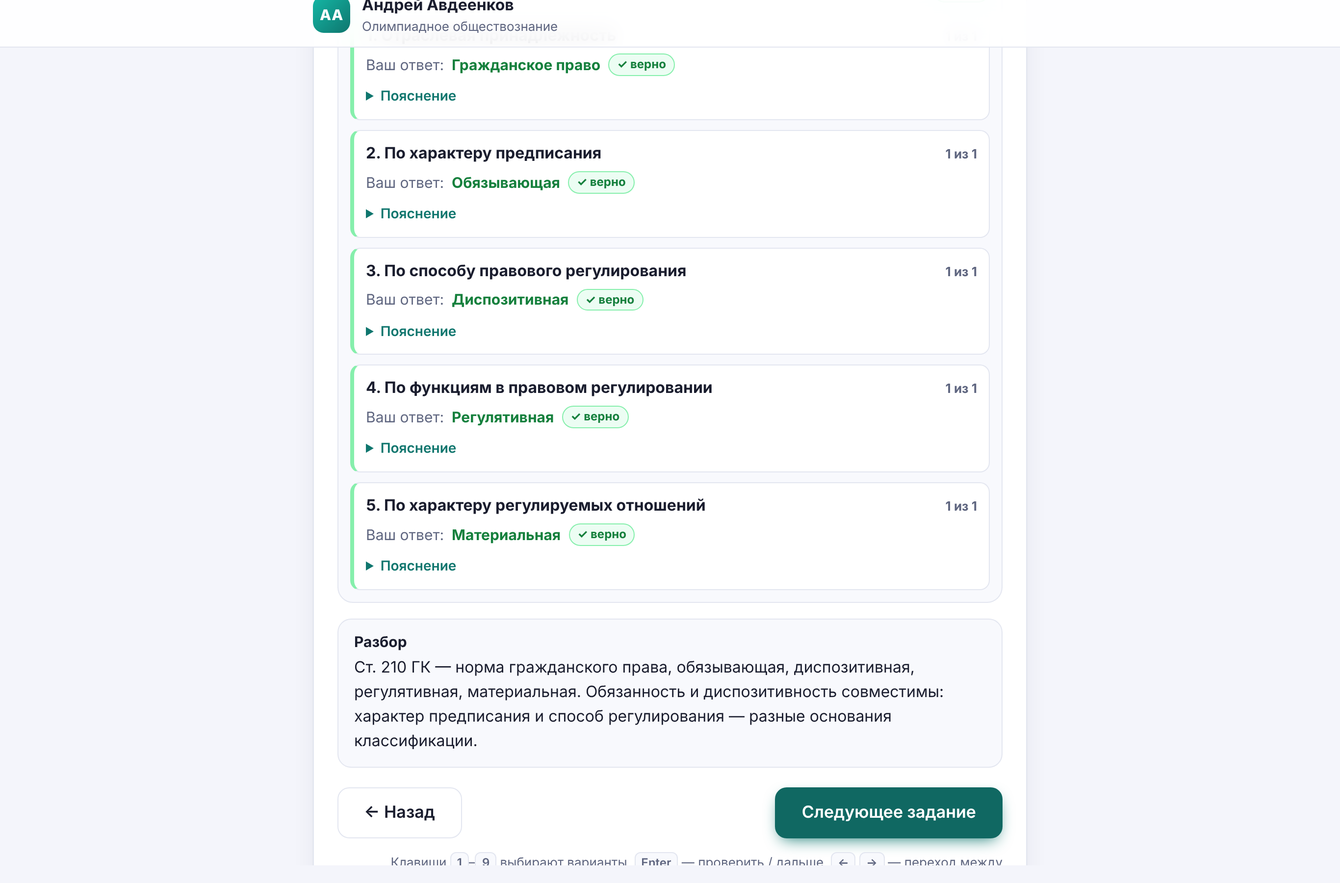
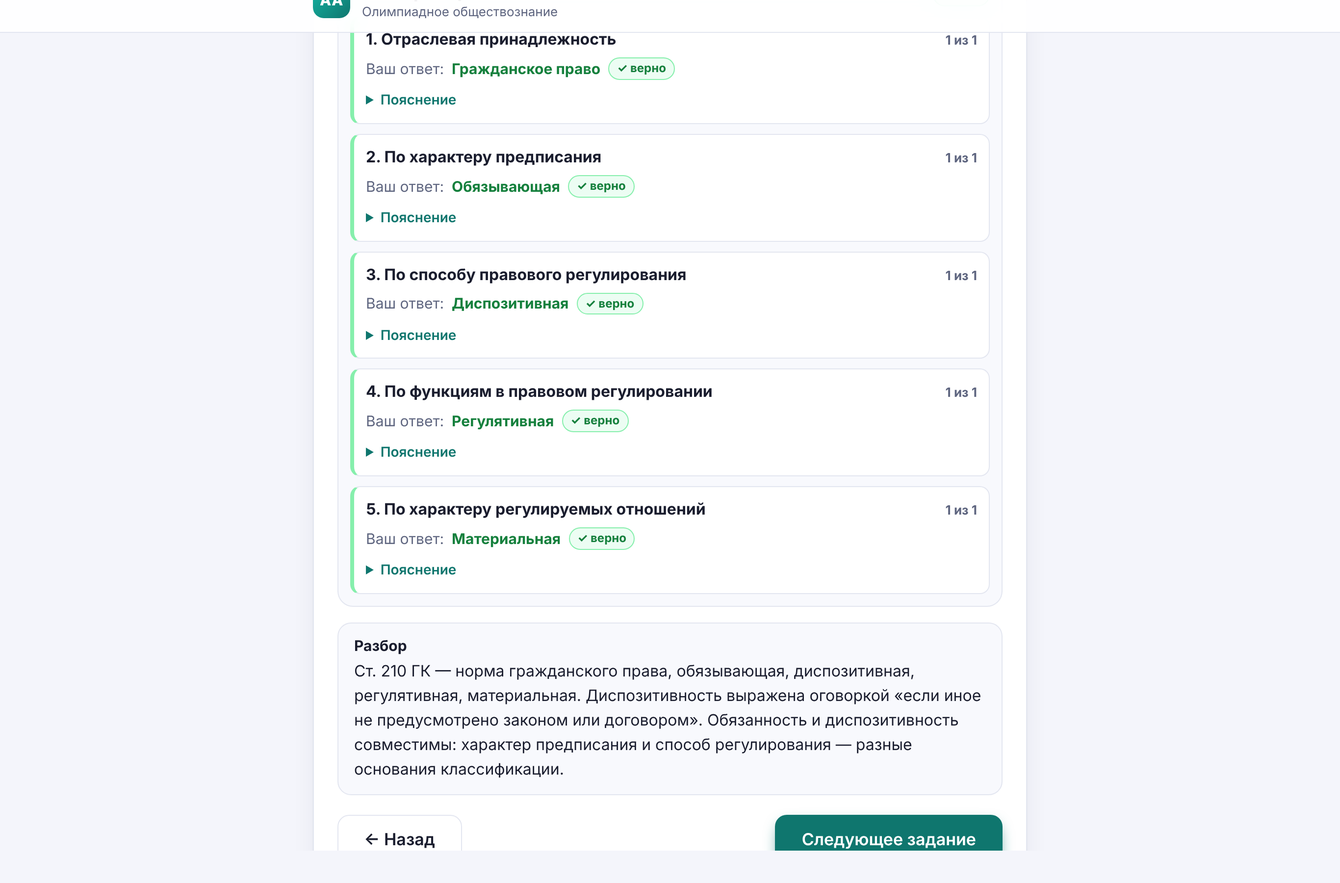
Структура нормы: образец IV-1 (ТК ст. 76 ч. 1) в трёхэлементной модели; уточнения III-2, III-3, III-4, III-6
- IV-1: гипотеза и диспозиция выражены однозначно, санкции в тексте нет — не размечается;
  вопросы о невыраженной санкции; без «условия применения санкции».
- Разбор разметки: точная формулировка замечания, когда фрагмент элемента помечен другим элементом.
- III-2 — оговорка «если иное не предусмотрено законом или договором»; III-3 — без дискуссии
  о диспозитивности; III-4 — исключения из запрета увольнения; III-6 — полная санкция ст. 158 ч. 1.

Claude-Session: https://claude.ai/code/session_01DtU1BYdzbcua2RQZXHQm1D

diff --git a/work/law-nrm/mandatory.js b/work/law-nrm/mandatory.js
@@ -818,9 +818,9 @@ OLY.addTasks([
           { id: 'method', short: 'Императивность', label: '3. По способу правового регулирования',
             options: ['Императивная', 'Диспозитивная'], key: [1],
             wrong: {
-              0: { short: 'Норма прямо допускает иное, предусмотренное договором: это диспозитивная норма.', full: 'Обязывающий характер нормы не означает императивности: это разные основания классификации. Слова «если иное не предусмотрено … договором» позволяют сторонам договориться, что бремя содержания несёт другое лицо (например, арендатор), — норма применяется, если стороны иное не установили.' }
+              0: { short: 'Решает оговорка «если иное не предусмотрено законом или договором»: норма сама допускает иное правило — это диспозитивная норма.', full: 'Обязывающий характер нормы не означает императивности: это разные основания классификации. Оговорка «если иное не предусмотрено законом или договором» позволяет сторонам договором возложить бремя содержания на другое лицо (например, на арендатора). Правило ст. 210 применяется, только если ни закон, ни договор не установили иное.' }
             },
-            explanation: 'Норма применяется, если договором (или законом) не предусмотрено иное, — диспозитивная.' },
+            explanation: 'Ключ к ответу — оговорка «если иное не предусмотрено законом или договором». Правило о бремени содержания действует, пока стороны договором (или закон) не установили иное, — диспозитивная норма.' },
           { id: 'function', short: 'Функция', label: '4. По функциям в правовом регулировании',
             options: ['Регулятивная', 'Охранительная'], key: [0],
             wrong: { 1: 'Норма устанавливает обязанность собственника, а не меру принуждения за нарушение.' },
@@ -832,7 +832,7 @@ OLY.addTasks([
         ]
       }
     ],
-    explanation: 'Ст. 210 ГК — норма гражданского права, обязывающая, диспозитивная, регулятивная, материальная. Обязанность и диспозитивность совместимы: характер предписания и способ регулирования — разные основания классификации.',
+    explanation: 'Ст. 210 ГК — норма гражданского права, обязывающая, диспозитивная, регулятивная, материальная. Диспозитивность выражена оговоркой «если иное не предусмотрено законом или договором». Обязанность и диспозитивность совместимы: характер предписания и способ регулирования — разные основания классификации.',
     typicalMistake: 'Считать норму императивной только потому, что она устанавливает обязанность.',
     scoring: { maxPoints: 5, rule: 'components', basis: 'author' }
   },
@@ -886,7 +886,7 @@ OLY.addTasks([
         ]
       }
     ],
-    explanation: 'Предписание ч. 1 ст. 39 ГПК о полномочиях истца — норма гражданского процессуального права, управомочивающая, регулятивная, процессуальная. Основание «императивная / диспозитивная» в задание не включено: применительно к процессуальным нормам о распоряжении правами в науке используются разные подходы (диспозитивность как принцип процесса и как способ правового регулирования), и однозначного ответа нет.',
+    explanation: 'Предписание ч. 1 ст. 39 ГПК о полномочиях истца — норма гражданского процессуального права, управомочивающая, регулятивная, процессуальная.',
     typicalMistake: 'Относить норму к гражданскому праву, потому что иск защищает гражданские права.',
     scoring: { maxPoints: 4, rule: 'components', basis: 'author' }
   },
@@ -901,100 +901,80 @@ OLY.addTasks([
     order: 7,
     level: 1,
     draft: true,
-    verification: { status: 'unconfirmed', checked: '2026-10-11', note: 'Официальные источники недоступны из окружения разработки; текст пп. 1 и 3 ст. 80 СК приведён по одному вторичному источнику (статус C), нумерацию пунктов нужно проверить.' },
-    tags: ['структура нормы', 'гипотеза', 'диспозиция', 'санкция', 'правовосстановительная санкция', 'реконструкция нормы'],
+    verification: { status: 'unconfirmed', checked: '2026-10-11', note: 'Официальные источники недоступны из окружения разработки. ТК РФ ст. 76 ч. 1 (абз. 1–2) приведена по памяти.' },
+    tags: ['структура нормы', 'гипотеза', 'диспозиция', 'санкция', 'элементы, выраженные в тексте'],
     type: 'text-markup',
-    question: 'Разметьте элементы, прямо выраженные в пп. 1 и 3 ст. 80 СК РФ, и восстановите полную норму.',
-    markupTitle: 'Разметка выраженных элементов',
-    markupHint: 'Размечайте только то, что прямо написано в тексте. Санкция здесь понимается в смысле лекции — как мера, применяемая при неисполнении обязанности (в том числе правовосстановительная). То, что в тексте не выражено, не размечается: полная норма восстанавливается в вопросах ниже.',
+    question: 'Определите структуру нормы ТК РФ, ст. 76 ч. 1: выделите гипотезу, диспозицию и санкцию — те из них, что выражены в тексте.',
+    markupTitle: 'Структура нормы',
+    markupHint: 'Классическая трёхэлементная модель: гипотеза — условия, при которых действует правило; диспозиция — само правило поведения; санкция — мера государственного принуждения за нарушение правила. Размечайте только то, что прямо выражено в тексте. Если элемента в тексте нет, не размечайте его: вопросы о нём — ниже.',
     legal: [
       {
-        id: 'sk-80', role: 'main', act: 'СК РФ', ref: 'ст. 80, пп. 1 и 3', verified: false,
+        id: 'tk-76-1', role: 'main', act: 'ТК РФ', ref: 'ст. 76, ч. 1, абз. 1–2', verified: false,
         fragments: [
-          { text: 'П. 1: ' },
-          { id: 'f1', text: 'Родители' }, { text: ' ' },
-          { id: 'f2', text: 'обязаны содержать' }, { text: ' ' },
-          { id: 'f3', text: 'своих несовершеннолетних детей.' }, { text: ' […] П. 3: ' },
-          { id: 'f4', text: 'В случае, если родители не предоставляют содержание своим несовершеннолетним детям,' }, { text: ' ' },
-          { id: 'f5', text: 'средства на содержание несовершеннолетних детей (алименты) взыскиваются с родителей в судебном порядке.' }
+          { id: 'f1', text: 'Работодатель обязан отстранить от работы (не допускать к работе)' }, { text: ' работника: ' },
+          { id: 'f2', text: 'появившегося на работе в состоянии алкогольного, наркотического или иного токсического опьянения' }, { text: '; […]' }
         ]
       }
     ],
     palette: [
       { id: 'H', label: 'Гипотеза', short: 'Г' },
       { id: 'D', label: 'Диспозиция', short: 'Д' },
-      { id: 'U', label: 'Условие применения санкции', short: 'У', tool: 'условие' },
       { id: 'S', label: 'Санкция', short: 'С' }
     ],
     markup: {
-      key: { f1: 'H', f2: 'D', f3: ['H', 'D'], f4: 'U', f5: 'S' },
+      key: { f1: 'D', f2: 'H' },
       elements: {
         H: {
-          explanation: 'Гипотеза указывает, к кому и при каких условиях применяется норма: родители (по отношению к несовершеннолетним детям). Фрагмент «своих несовершеннолетних детей» содержит и условие (несовершеннолетие), и объект обязанности — граница спорна, принимаются обе метки.',
-          wrong: 'Адресат нормы — «родители» — и условие несовершеннолетия детей относятся к гипотезе.'
+          explanation: 'Гипотеза — условие, при котором возникает обязанность: работник появился на работе в состоянии алкогольного, наркотического или иного токсического опьянения.',
+          wrong: 'Условие, при котором действует правило, — «появившегося на работе в состоянии … опьянения»: это гипотеза.'
         },
         D: {
-          explanation: 'Диспозиция — правило поведения: «обязаны содержать».',
-          wrong: '«Обязаны содержать» — правило поведения, то есть диспозиция.'
-        },
-        U: {
-          explanation: 'Слова «в случае, если родители не предоставляют содержание…» — условие применения санкции: неисполнение обязанности из диспозиции.',
-          wrong: {
-            short: 'Условие применения санкции — неисполнение обязанности: «в случае, если родители не предоставляют содержание».',
-            full: 'Это не гипотеза основной нормы (она говорит, кто обязан), а обстоятельство, при котором применяется мера, — нарушение диспозиции. Поэтому в палитре оно выделено отдельно.'
-          }
+          explanation: 'Диспозиция — правило поведения: работодатель обязан отстранить работника от работы (не допускать к работе). Указание на обязанное лицо — работодателя — входит в диспозицию.',
+          wrong: 'Правило поведения — «Работодатель обязан отстранить от работы (не допускать к работе)» — это диспозиция.'
         },
         S: {
-          explanation: 'Санкция в смысле лекции — взыскание алиментов в судебном порядке: принудительное исполнение той же обязанности (правовосстановительная мера).',
-          wrong: 'Мера, применяемая при неисполнении обязанности, — «алименты взыскиваются с родителей в судебном порядке».'
+          explanation: 'Санкции в приведённом тексте нет. Мера ответственности работодателя за неисполнение обязанности установлена другим актом.',
+          wrong: {
+            short: 'В тексте санкции нет — её не размечают.',
+            full: 'Слова «отстранить от работы (не допускать к работе)» описывают, что должен сделать работодатель, то есть содержание его обязанности. Санкция — мера принуждения к самому работодателю за неисполнение этой обязанности; в ст. 76 её нет.'
+          }
         }
       }
     },
     sections: [
       {
         id: 'rebuild',
-        title: 'Реконструкция полной нормы',
-        hint: 'Восстановите то, что в тексте выражено не полностью или вытекает из сопоставления пунктов.',
+        title: 'Невыраженный элемент',
         rows: [
           {
-            id: 'r-hyp', short: 'Гипотеза', shuffle: true,
-            label: 'К кому и при каком условии применяется основная норма (полная гипотеза)?',
-            options: ['к родителям несовершеннолетних детей', 'к родителям любых детей независимо от возраста', 'только к родителям, проживающим отдельно от детей'],
+            id: 'r-present', short: 'Есть ли санкция', shuffle: true,
+            label: 'Выражена ли санкция в приведённом тексте?',
+            options: ['Нет: в приведённом тексте санкции нет', 'Да: это слова «не допускать к работе»', 'Да: это слова «отстранить от работы»'],
             key: [0],
             wrong: {
-              1: 'Норма говорит о несовершеннолетних детях; обязанности по отношению к совершеннолетним детям установлены другими нормами.',
-              2: 'Текст не ограничивает обязанность родителями, проживающими отдельно: она лежит на обоих родителях.'
+              1: 'Недопуск к работе — содержание обязанности работодателя (диспозиция), а не мера принуждения к нему.',
+              2: 'Отстранение — действие, которое обязан совершить работодатель (диспозиция). Санкция применялась бы к самому работодателю за неисполнение обязанности.'
             },
-            explanation: 'Гипотеза: лица являются родителями несовершеннолетних детей.'
+            explanation: 'В тексте выражены только гипотеза и диспозиция.'
           },
           {
-            id: 'r-kind', short: 'Вид санкции',
-            label: 'Вид санкции по лекции',
-            options: ['правовосстановительная', 'штрафная (карательная)', 'поощрительная'],
+            id: 'r-where', short: 'Где санкция', shuffle: true,
+            label: 'Где можно найти меру ответственности работодателя за неисполнение этой обязанности?',
+            options: ['В другом акте — в КоАП РФ (нарушение трудового законодательства)', 'В этой же части ст. 76 ТК — в словах, взятых в скобки', 'Нигде: эта обязанность работодателя ничем не обеспечена', 'В трудовом договоре, заключённом с этим работником'],
             key: [0],
             wrong: {
-              1: 'Взыскание алиментов не добавляет нового обременения сверх обязанности, а принуждает исполнить саму обязанность.',
-              2: 'Поощрительная мера — награда за полезное поведение; здесь мера применяется при неисполнении обязанности.'
+              1: 'Слова в скобках уточняют содержание обязанности (не допускать к работе), а не устанавливают меру принуждения.',
+              2: 'Нарушение работодателем трудового законодательства влечёт административную ответственность по КоАП РФ.',
+              3: 'Трудовой договор не устанавливает мер государственного принуждения к работодателю.'
             },
-            explanation: 'Правовосстановительная: принудительно исполняется та же обязанность содержать детей.'
-          },
-          {
-            id: 'r-link', short: 'П. 1 и п. 3', shuffle: true, component: 'R',
-            label: 'Как связаны п. 1 и п. 3?',
-            options: ['п. 1 — правило поведения, п. 3 — мера на случай его нарушения', 'п. 3 — исключение из правила п. 1 для отдельных случаев', 'п. 3 раскрывает понятие «содержание», использованное в п. 1'],
-            key: [0],
-            wrong: {
-              1: 'П. 3 не отменяет обязанность, а обеспечивает её исполнение.',
-              2: 'П. 3 не определяет понятие из п. 1, а устанавливает последствие его нарушения.'
-            },
-            explanation: 'Три элемента нормы собираются из двух пунктов: п. 1 — гипотеза и диспозиция, п. 3 — условие применения санкции и сама санкция.'
+            explanation: 'Санкцию можно восстановить из другого акта: за нарушение трудового законодательства работодатель несёт административную ответственность по КоАП РФ. Трёхэлементная модель описывает логическую структуру нормы — элементы не обязаны находиться в одной статье.'
           }
         ]
       }
     ],
-    explanation: 'В пп. 1 и 3 ст. 80 СК все элементы нормы выражены в тексте, но в разных пунктах: гипотеза и диспозиция — в п. 1, условие применения санкции и санкция — в п. 3. Санкция здесь понимается в широком смысле лекции — как правовосстановительная мера.',
-    typicalMistake: 'Отнести слова «в случае, если родители не предоставляют содержание» к гипотезе основной нормы.',
-    scoring: { maxPoints: 7, rule: 'components', basis: 'author' }
+    explanation: 'В ч. 1 ст. 76 ТК выражены гипотеза (работник появился на работе в состоянии опьянения) и диспозиция (работодатель обязан отстранить его от работы). Санкции в тексте нет: меру ответственности работодателя можно восстановить из другого акта — КоАП РФ.',
+    typicalMistake: 'Принимать слова «не допускать к работе» за санкцию или размечать элемент, которого нет в тексте.',
+    scoring: { maxPoints: 5, rule: 'components', basis: 'author' }
   },
   {
     id: 'PR-LAW-NRM-008',

diff --git a/work/law-nrm/block-b.js b/work/law-nrm/block-b.js
@@ -86,7 +86,7 @@
       order: 2,
       level: 2,
       draft: true,
-      verification: { status: 'unconfirmed', checked: '2026-10-11', note: 'Официальные источники недоступны из окружения разработки. ТК РФ ст. 81 ч. 6 приведена по памяти.' },
+      verification: { status: 'unconfirmed', checked: '2026-10-11', note: 'Официальные источники недоступны из окружения разработки. ТК РФ ст. 81 ч. 6 приведена по памяти; номер части (в действующей редакции — ч. 6) и текст исключения нужно сверить с официальной публикацией.' },
       tags: ['классификация норм', 'отрасль права', 'запрещающая норма', 'императивная норма', 'регулятивная норма', 'материальная норма'],
       type: 'analysis-grid',
       question: 'Классифицируйте норму ТК РФ, ст. 81 ч. 6 (запрет увольнения в период нетрудоспособности и отпуска).',
@@ -97,7 +97,7 @@
       sections: [
         {
           id: 'classify', title: 'Классификация',
-          hint: 'Классифицируйте приведённое предписание целиком.',
+          hint: 'Классифицируйте приведённое предписание целиком, включая исключение в скобках.',
           rows: [
             OLY.nrmClassify.branchRow({
               key: 'Трудовое право', regulates: 'увольнение работника по инициативе работодателя',
@@ -113,7 +113,7 @@
                 1: 'Норма не требует совершить действие, а запрещает его — увольнение в указанные периоды.',
                 2: 'Норма не предоставляет возможность, а устанавливает запрет («не допускается»).'
               },
-              explanation: '«Не допускается увольнение» — запрет определённого поведения: запрещающая норма.' },
+              explanation: '«Не допускается увольнение» — запрет определённого поведения: запрещающая норма. Исключение (ликвидация организации, прекращение деятельности индивидуальным предпринимателем) сужает запрет, но не меняет его характера.' },
             { id: 'method', short: 'Императивность', label: '3. По способу правового регулирования',
               options: ['Императивная', 'Диспозитивная'], key: [0],
               wrong: { 1: 'Запрет не может быть отменён соглашением работника и работодателя: норма не допускает иного регулирования по усмотрению сторон.' },
@@ -129,7 +129,7 @@
           ]
         }
       ],
-      explanation: 'Ч. 6 ст. 81 ТК — норма трудового права, запрещающая, императивная, регулятивная, материальная. Запрещающие нормы относятся к регулятивным: они устанавливают правило поведения.',
+      explanation: 'Ч. 6 ст. 81 ТК — норма трудового права, запрещающая, императивная, регулятивная, материальная. Запрет действует с исключениями: (1) он касается только увольнения по инициативе работодателя — например, расторжение договора по соглашению сторон или по инициативе работника им не охватывается; (2) сама норма допускает увольнение в период нетрудоспособности или отпуска при ликвидации организации либо прекращении деятельности индивидуальным предпринимателем. Запрещающие нормы относятся к регулятивным: они устанавливают правило поведения.',
       typicalMistake: 'Считать запрещающую норму охранительной, потому что она защищает работника.',
       scoring: { maxPoints: 5, rule: 'components', basis: 'author' }
     },
@@ -197,18 +197,18 @@
       order: 4,
       level: 2,
       draft: true,
-      verification: { status: 'unconfirmed', checked: '2026-10-11', note: 'Официальные источники недоступны из окружения разработки. УК РФ ст. 158 ч. 1 приведена по памяти, санкция — с сокращениями; виды и размеры наказаний нужно сверить.' },
+      verification: { status: 'unconfirmed', checked: '2026-10-11', note: 'Официальные источники недоступны из окружения разработки. УК РФ ст. 158 ч. 1 приведена по памяти полностью; виды и размеры наказаний нужно сверить с действующей редакцией.' },
       tags: ['классификация норм', 'отрасль права', 'охранительная норма', 'императивная норма', 'материальная норма'],
       type: 'analysis-grid',
       question: 'Классифицируйте норму УК РФ, ст. 158 ч. 1 (кража).',
       legal: [
-        { id: 'uk-158-1', role: 'main', act: 'УК РФ', ref: 'ст. 158, ч. 1 (санкция — с сокращениями)', verified: false,
-          fragments: [{ text: 'Кража, то есть тайное хищение чужого имущества, — наказывается штрафом в размере до восьмидесяти тысяч рублей […] либо обязательными работами […], либо лишением свободы на срок до двух лет.' }] }
+        { id: 'uk-158-1', role: 'main', act: 'УК РФ', ref: 'ст. 158, ч. 1', verified: false,
+          fragments: [{ text: 'Кража, то есть тайное хищение чужого имущества, — наказывается штрафом в размере до восьмидесяти тысяч рублей или в размере заработной платы или иного дохода осужденного за период до шести месяцев, либо обязательными работами на срок до трехсот шестидесяти часов, либо исправительными работами на срок до одного года, либо ограничением свободы на срок до двух лет, либо принудительными работами на срок до двух лет, либо арестом на срок до четырех месяцев, либо лишением свободы на срок до двух лет.' }] }
       ],
       sections: [
         {
           id: 'classify', title: 'Классификация',
-          hint: 'Классифицируйте приведённое предписание. Основание «по характеру предписания» здесь не оценивается: для норм, устанавливающих наказание, однозначного ответа нет.',
+          hint: 'Классифицируйте приведённую норму: описание преступления (кража) и наказания за него.',
           rows: [
             OLY.nrmClassify.branchRow({
               key: 'Уголовное право', regulates: 'преступность и наказуемость кражи',
@@ -226,7 +226,7 @@
             { id: 'function', short: 'Функция', label: '3. По функциям в правовом регулировании',
               options: ['Регулятивная', 'Охранительная'], key: [1],
               wrong: { 0: { short: 'Норма устанавливает меру государственного принуждения — наказание — за правонарушение: охранительная.', full: 'Регулятивная норма устанавливает правило поведения (права и обязанности). Ст. 158 ч. 1 определяет, при каком правонарушении и какое наказание применяется, — это охранительная норма.' } },
-              explanation: 'Норма определяет меру государственного принуждения за правонарушение — охранительная.' },
+              explanation: 'Норма описывает правонарушение (кража — тайное хищение чужого имущества) и устанавливает за него меры государственного принуждения — виды и пределы наказаний. Это охранительная норма.' },
             { id: 'nature', short: 'Материальная', label: '4. По характеру регулируемых отношений',
               options: ['Материальная', 'Процессуальная'], key: [0],
               wrong: { 1: 'Норма определяет преступление и наказание, а не порядок уголовного судопроизводства (это УПК).' },

diff --git a/js/olymp/ui/views/markup.js b/js/olymp/ui/views/markup.js
@@ -311,11 +311,17 @@
         return card;
       }
       if (detail.status === 'note') {
-        var where = detail.noted.map(function (id) {
+        // Два разных случая: (а) фрагмент этого элемента помечен другим элементом;
+        // (б) метка этого элемента поставлена на фрагмент другого элемента.
+        detail.noted.forEach(function (id) {
           var f = fragments[id];
-          return N.quote(N.fragmentText(task, id)) + ' — ошибка учтена в элементе «' + paletteLabel(task, f.charged) + '»';
+          var text = N.quote(N.fragmentText(task, id));
+          var charged = paletteLabel(task, f.charged);
+          var line = f.accepted.indexOf(p.id) !== -1
+            ? 'Фрагмент ' + text + ' — это «' + p.label + '», но он размечен как «' + paletteLabel(task, f.mark) + '». Ошибка учтена в элементе «' + charged + '»: одна неверная метка снимает не больше одного балла.'
+            : 'Метка «' + p.label + '» поставлена на фрагмент другого элемента: ' + text + '. Ошибка учтена в элементе «' + charged + '»: одна неверная метка снимает не больше одного балла.';
+          card.appendChild(el('p', 'nrm-rv__note', line));
         });
-        card.appendChild(el('p', 'nrm-rv__note', 'Метка «' + p.label + '» поставлена и на фрагмент другого элемента: ' + where.join('; ') + '. Одна неверная метка снимает не больше одного балла.'));
       }
       card.classList.add('nrm-rv--ok');
     } else {

diff --git a/docs/drafts/pr-law-nrm-verification-checklist.md b/docs/drafts/pr-law-nrm-verification-checklist.md
@@ -24,7 +24,7 @@
 | 9 | ТК РФ | ст. 60 | PR-LAW-NRM-002 | pending | Запрещается требовать от работника выполнения работы, не обусловленной трудовым договором, за исключением случаев, предусмотренных настоящим Кодексом и иными федеральными законами. |
 | 10 | ГК РФ | ст. 210 | PR-LAW-NRM-005 | pending | Собственник несет бремя содержания принадлежащего ему имущества, если иное не предусмотрено законом или договором. |
 | 11 | ГПК РФ | ст. 39, ч. 1 (полномочия истца) | PR-LAW-NRM-006 | pending | Истец вправе изменить основание или предмет иска, увеличить или уменьшить размер исковых требований либо отказаться от иска. |
-| 12 | СК РФ | ст. 80, пп. 1 и 3 | PR-LAW-NRM-007 | pending | П. 1: Родители обязаны содержать своих несовершеннолетних детей. […] П. 3: В случае, если родители не предоставляют содержание своим несовершеннолетним детям, средства на содержание несовершеннолетних детей (алименты) взыскиваются с родителей в судебном порядке. |
+| 12 | ТК РФ | ст. 76, ч. 1, абз. 1–2 | PR-LAW-NRM-007 | pending | Работодатель обязан отстранить от работы (не допускать к работе) работника: появившегося на работе в состоянии алкогольного, наркотического или иного токсического опьянения; […] |
 | 13 | ТК РФ | ст. 122, ч. 2 | PR-LAW-NRM-008 | pending | Право на использование отпуска за первый год работы возникает у работника по истечении шести месяцев его непрерывной работы у данного работодателя. По соглашению сторон оплачиваемый отпуск работнику может быть предоставлен и до истечения шести месяцев. |
 | 14 | Конституция РФ | ст. 38, ч. 3 | PR-LAW-NRM-009 | pending | Трудоспособные дети, достигшие 18 лет, должны заботиться о нетрудоспособных родителях. |
 | 15 | СК РФ | ст. 87, п. 1 | PR-LAW-NRM-009 | pending | Трудоспособные совершеннолетние дети обязаны содержать своих нетрудоспособных нуждающихся в помощи родителей и заботиться о них. |
@@ -41,7 +41,7 @@
 | 26 | СК РФ | ст. 80, п. 1, первое предложение | PR-LAW-NRB-001 | pending | Родители обязаны содержать своих несовершеннолетних детей. |
 | 27 | ТК РФ | ст. 81, ч. 6 | PR-LAW-NRB-002 | pending | Не допускается увольнение работника по инициативе работодателя (за исключением случая ликвидации организации либо прекращения деятельности индивидуальным предпринимателем) в период его временной нетрудоспособности и в период пребывания в отпуске. |
 | 28 | Конституция РФ | ст. 57, первое предложение | PR-LAW-NRB-003 | pending | Каждый обязан платить законно установленные налоги и сборы. |
-| 29 | УК РФ | ст. 158, ч. 1 (санкция — с сокращениями) | PR-LAW-NRB-004 | pending | Кража, то есть тайное хищение чужого имущества, — наказывается штрафом в размере до восьмидесяти тысяч рублей […] либо обязательными работами […], либо лишением свободы на срок до двух лет. |
+| 29 | УК РФ | ст. 158, ч. 1 | PR-LAW-NRB-004 | pending | Кража, то есть тайное хищение чужого имущества, — наказывается штрафом в размере до восьмидесяти тысяч рублей или в размере заработной платы или иного дохода осужденного за период до шести месяцев, либо обязательными работами на срок до трехсот шестидесяти часов, либо исправительными работами на срок до одного года, либо ограничением свободы на срок до двух лет, либо принудительными работами на срок до двух лет, либо арестом на срок до четырех месяцев, либо лишением свободы на срок до двух лет. |
 | 30 | Земельный кодекс РФ | ст. 42, абз. 1–2 (фрагмент) | PR-LAW-NRB-005 | pending | Собственники земельных участков и лица, не являющиеся собственниками земельных участков, обязаны: использовать земельные участки в соответствии с их целевым назначением […] |
 | 31 | Конституция РФ | ст. 20, ч. 1 | PR-LAW-NRC-001 | pending | Каждый имеет право на жизнь. |
 | 32 | ГК РФ | ст. 1064, п. 1 абз. 1 и п. 2 (первое предложение) | PR-LAW-NRC-002 | pending | П. 1: Вред, причиненный личности или имуществу гражданина, а также вред, причиненный имуществу юридического лица, подлежит возмещению в полном объеме лицом, причинившим вред. […] П. 2: Лицо, причинившее вред, освобождается от возмещения вреда, если докажет, что вред причинен не по его вине. |

diff --git a/docs/drafts/pr-law-nrm-blocks.md b/docs/drafts/pr-law-nrm-blocks.md
@@ -137,3 +137,40 @@
 **Баллы и время:**
 - обязательная часть — 108 баллов (было 129), ≈62 мин, с вводной и поправкой ×1,2 ≈ 77 мин, то есть в коридоре 75–90;
 - блок Б — 24 балла (было 42), ≈11 мин: он стал заметно короче плана.
+
+## Уточнения классификации (после утверждения формата)
+
+- **III-2.** Объяснение диспозитивности построено на оговорке «если иное не предусмотрено законом или договором».
+- **III-3.** Оцениваются только однозначные основания: отрасль, характер предписания, функция, материальная или процессуальная. Дискуссия о трактовках диспозитивности из разбора убрана.
+- **III-4.** Ст. 81 ч. 6 ТК: в разборе показаны исключения из запрета:
+  - запрет касается только увольнения по инициативе работодателя (соглашение сторон и увольнение по инициативе работника им не охватываются);
+  - сама норма допускает увольнение в период нетрудоспособности или отпуска при ликвидации организации или прекращении деятельности ИП.
+  Номер части (ч. 6 в известной редакции) и текст — к официальной сверке.
+- **III-6.** Ст. 158 ч. 1 УК приведена полностью — состав и все виды наказаний. Характер предписания не спрашивается.
+- **Принцип:** число оснований определяется нормой (в заданиях 4–5 вопросов), а не шаблоном.
+
+## Образец задания на структуру нормы (IV-1, на утверждение)
+
+**Формат:** текст положения → разметка гипотезы, диспозиции и санкции → вопросы о невыраженном элементе → одна проверка → объяснение.
+
+**Принципы:**
+- классическая трёхэлементная модель, без четвёртого элемента «условие применения санкции»;
+- размечается только то, что выражено в тексте;
+- санкции нет в тексте — её не размечают, о ней отдельный вопрос;
+- кликабельны только однозначно относимые фрагменты, спорных границ нет.
+
+**Материал:** ТК ст. 76 ч. 1, абз. 1–2 — вместо СК ст. 80 пп. 1 и 3. Прежний текст держался на «условии применения санкции» и на широком понимании санкции как правовосстановительной меры.
+
+| Элемент | Фрагмент | Ключ |
+|---|---|---|
+| Диспозиция | «Работодатель обязан отстранить от работы (не допускать к работе)» | Д |
+| Гипотеза | «появившегося на работе в состоянии алкогольного, наркотического или иного токсического опьянения» | Г |
+| Санкция | в тексте нет | не размечается |
+
+Вопросы:
+1. «Выражена ли санкция в тексте?» — нет.
+2. «Где найти меру ответственности работодателя?» — в другом акте, в КоАП РФ (нарушение трудового законодательства).
+
+Баллы: Т 3 + К 2 = 5.
+
+**Разбор неверной метки.** Правило «одна неверная метка снимает не больше одного балла» не меняется. Если пометить элементом, которого в тексте нет, фрагмент другого элемента (например, диспозицию как санкцию), балл снимается у отсутствующего элемента, а у элемента по эталону остаётся замечание. Формулировка замечания исправлена: «Фрагмент … — это „Диспозиция“, но он размечен как „Санкция“. Ошибка учтена в элементе „Санкция“».
